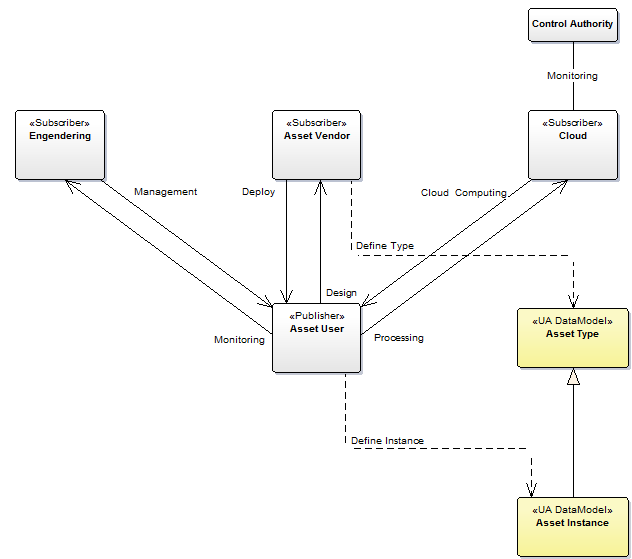
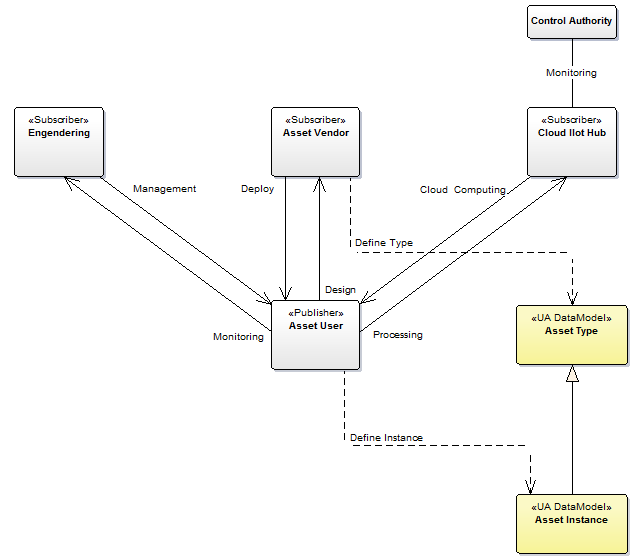
Global Data Discovery System - add placeholder for further research #199 - final review.

diff --git a/DataDiscovery/DomainModel.md b/DataDiscovery/DomainModel.md
@@ -9,8 +9,8 @@ The following diagram presents domain model of the **Data Discovery** concept.
 ![Design Time Activities](https://github.com/mpostol/OPC-UA-OOI/blob/master/CommonResources/Media/DataDiscovery.DomainModel.png) .
 
 # Separation of Concerns:
-* process model design - *Control Agency* (e.g. Polution Control Agency) prepares a generic information model to meet monitoring requirements.
+* process model design - *Control Agency* (e.g. Pollution Control Agency) prepares a generic information model to meet monitoring requirements.
 * asset model - *Asset Vendor* (e.g. boilers vendor) adopts the model to meet the product requirements with the purpose of continuous development and real time control.
-* maintenance model - *Engineering* organization (e.g. boiler maintenace service provider) according to the local needs adopts the information model to meet maintenance requirements on behalf of the *Asset User* (e.g. Heat and Power Plant).
+* maintenance model - *Engineering* organization (e.g. boiler maintenance service provider) according to the local needs adopts the information model to meet maintenance requirements on behalf of the *Asset User* (e.g. Heat and Power Plant).
 * **Data Domain** model - *Asset User* is ultimate owner of the data. Engineering on behalf of the user prepares the **Data Domain** model that could be uniquely identified in the global scope.
-* subscriber configuration - *Cloud* or *IIoT Hub* configures subscriber using prepared in advance **Data Domain** model to gather selected data.
+* subscriber configuration - *Cloud IIoT Hub* configures subscriber using prepared in advance **Data Domain** model to gather selected data.

diff --git a/DataDiscovery/DiscoveryServices/Readme.md b/DataDiscovery/DiscoveryServices/Readme.md
@@ -1,3 +1,3 @@
 # Gglobal Data Discovery Services
 
-Library supporting global data discovery services. 
+Library supporting global data discovery services.
